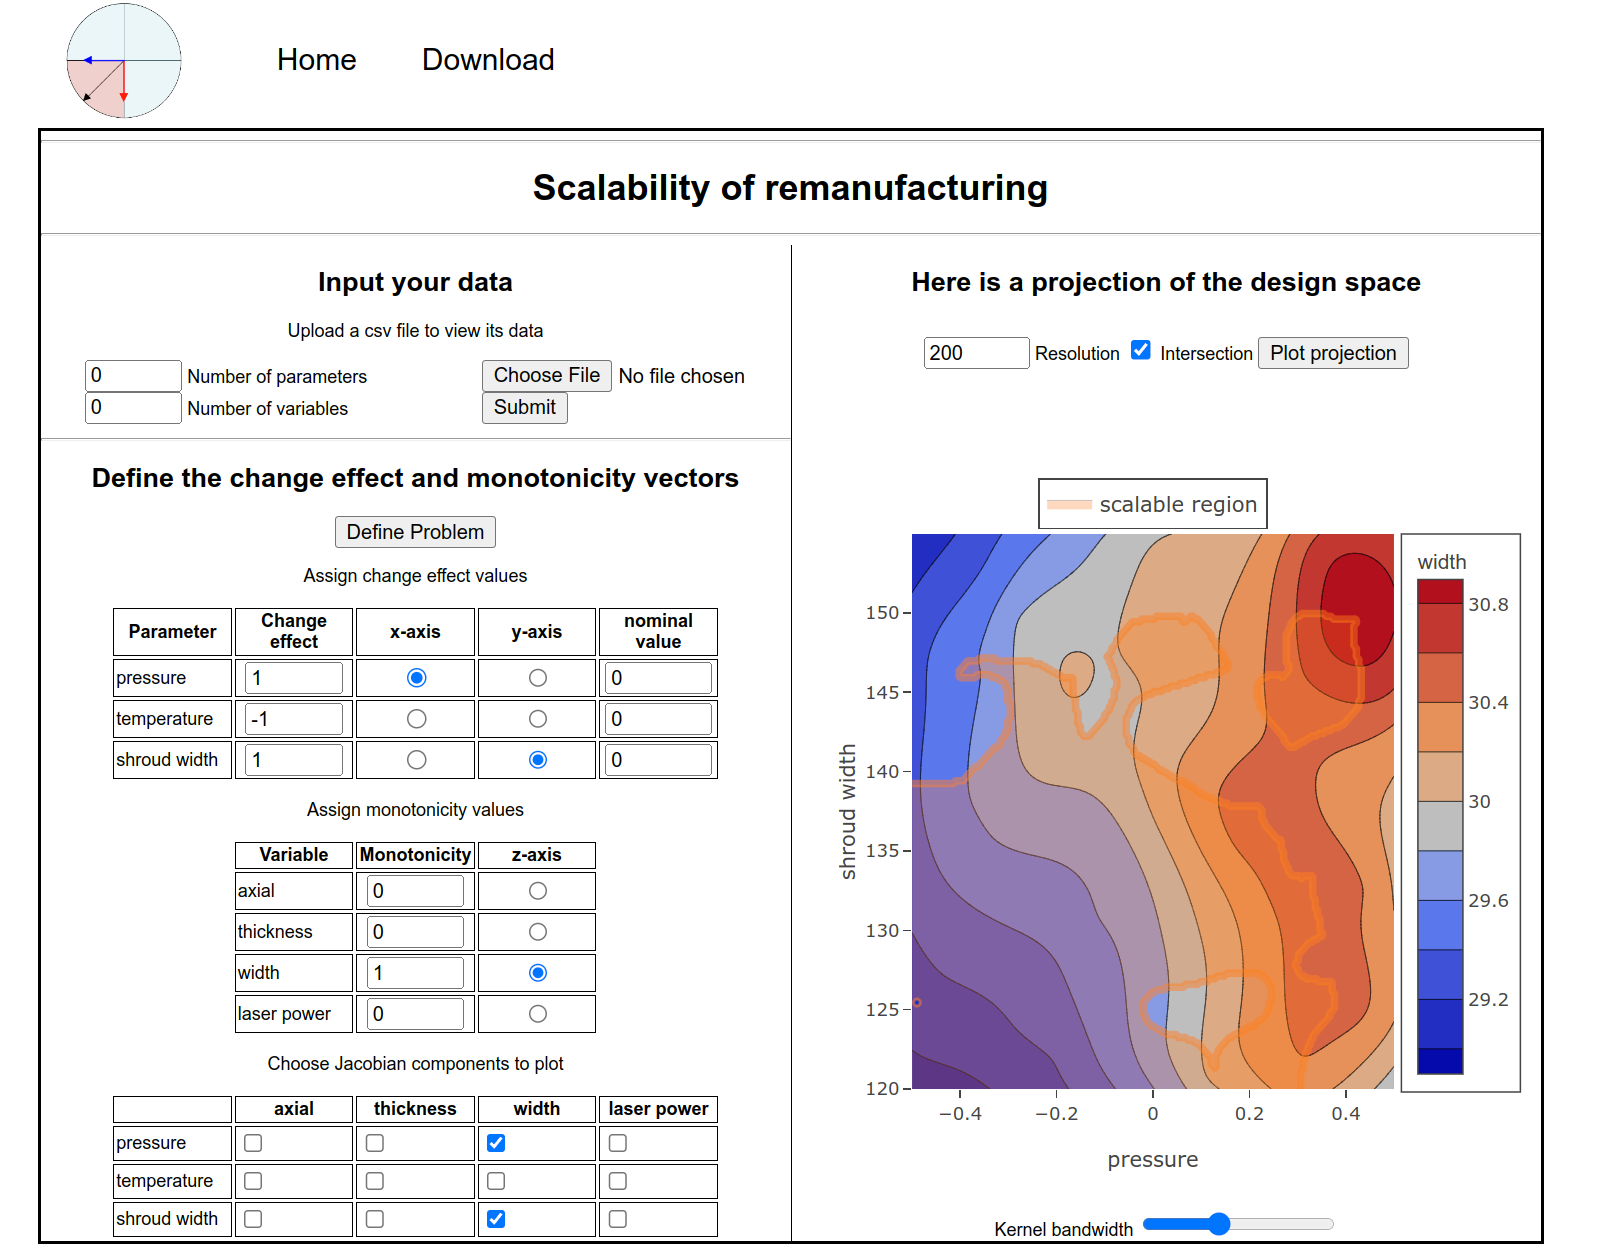
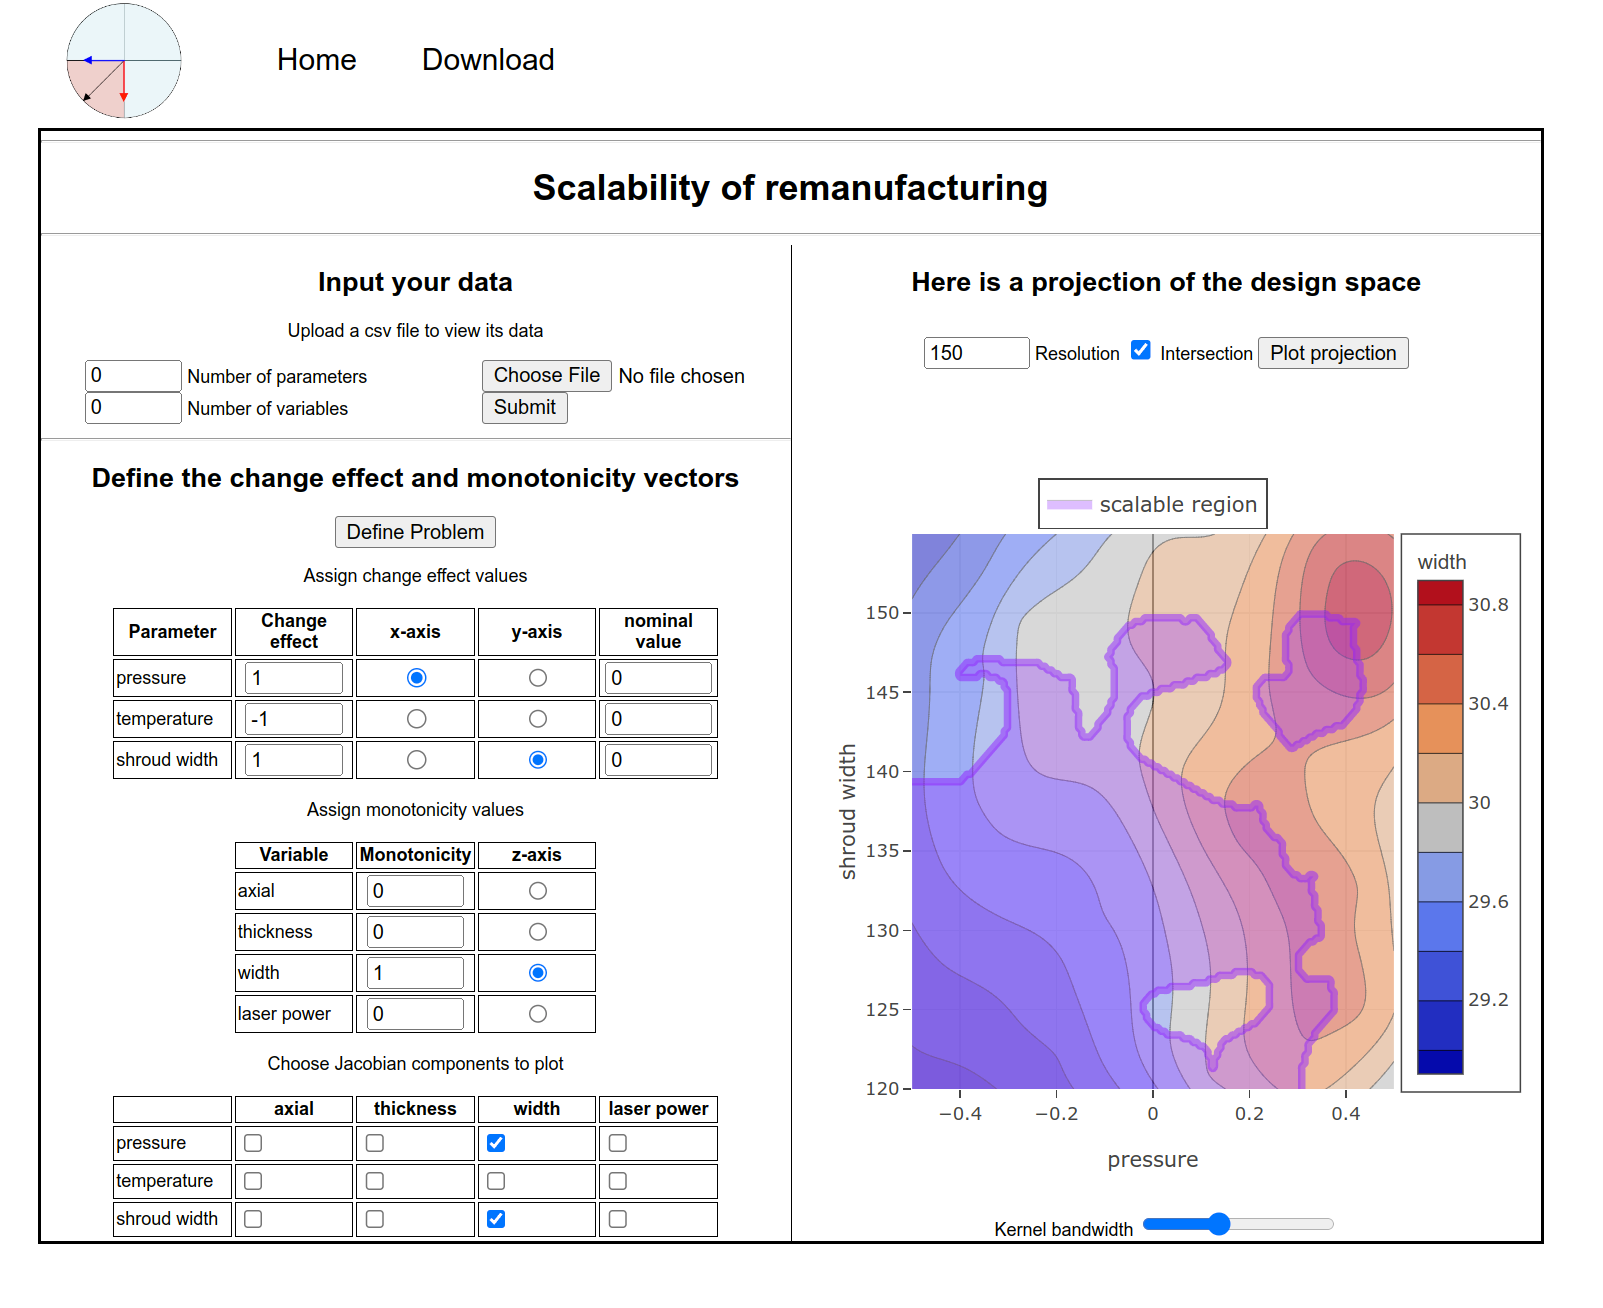
lighten up the contour plot

diff --git a/static/js/plotting.js b/static/js/plotting.js
@@ -61,6 +61,7 @@ function plot_contour() {
           x: response.x,
           y: response.y,
           type: "contour",
+          opacity: 0.6,
           colorbar:{
             title: response.labels["zlabel"],
             side: "top",
@@ -96,7 +97,7 @@ function plot_contour() {
       
       Plotly.newPlot(canvas, data, layout);
       
-      var colors = ["#ff7f0e", "#2ca02c", "#d62728", "#9467bd", "#8c564b", "#e377c2", "#7f7f7f", "#bcbd22", "#17becf"]
+      var colors = ["#8f0eff", "#2ca02c", "#0000ff", "#9467bd", "#8c564b", "#e377c2", "#7f7f7f", "#bcbd22", "#17becf"]
       var i = 0
       for (const cstr of response.cstrs) {
           var color = colors[cstr.order % colors.length]

diff --git a/static/css/main.css b/static/css/main.css
@@ -36,6 +36,7 @@ html, body {
   header li {
     margin: 20px;
   }
+
   header li a {
     color: black;
     text-decoration: none;
